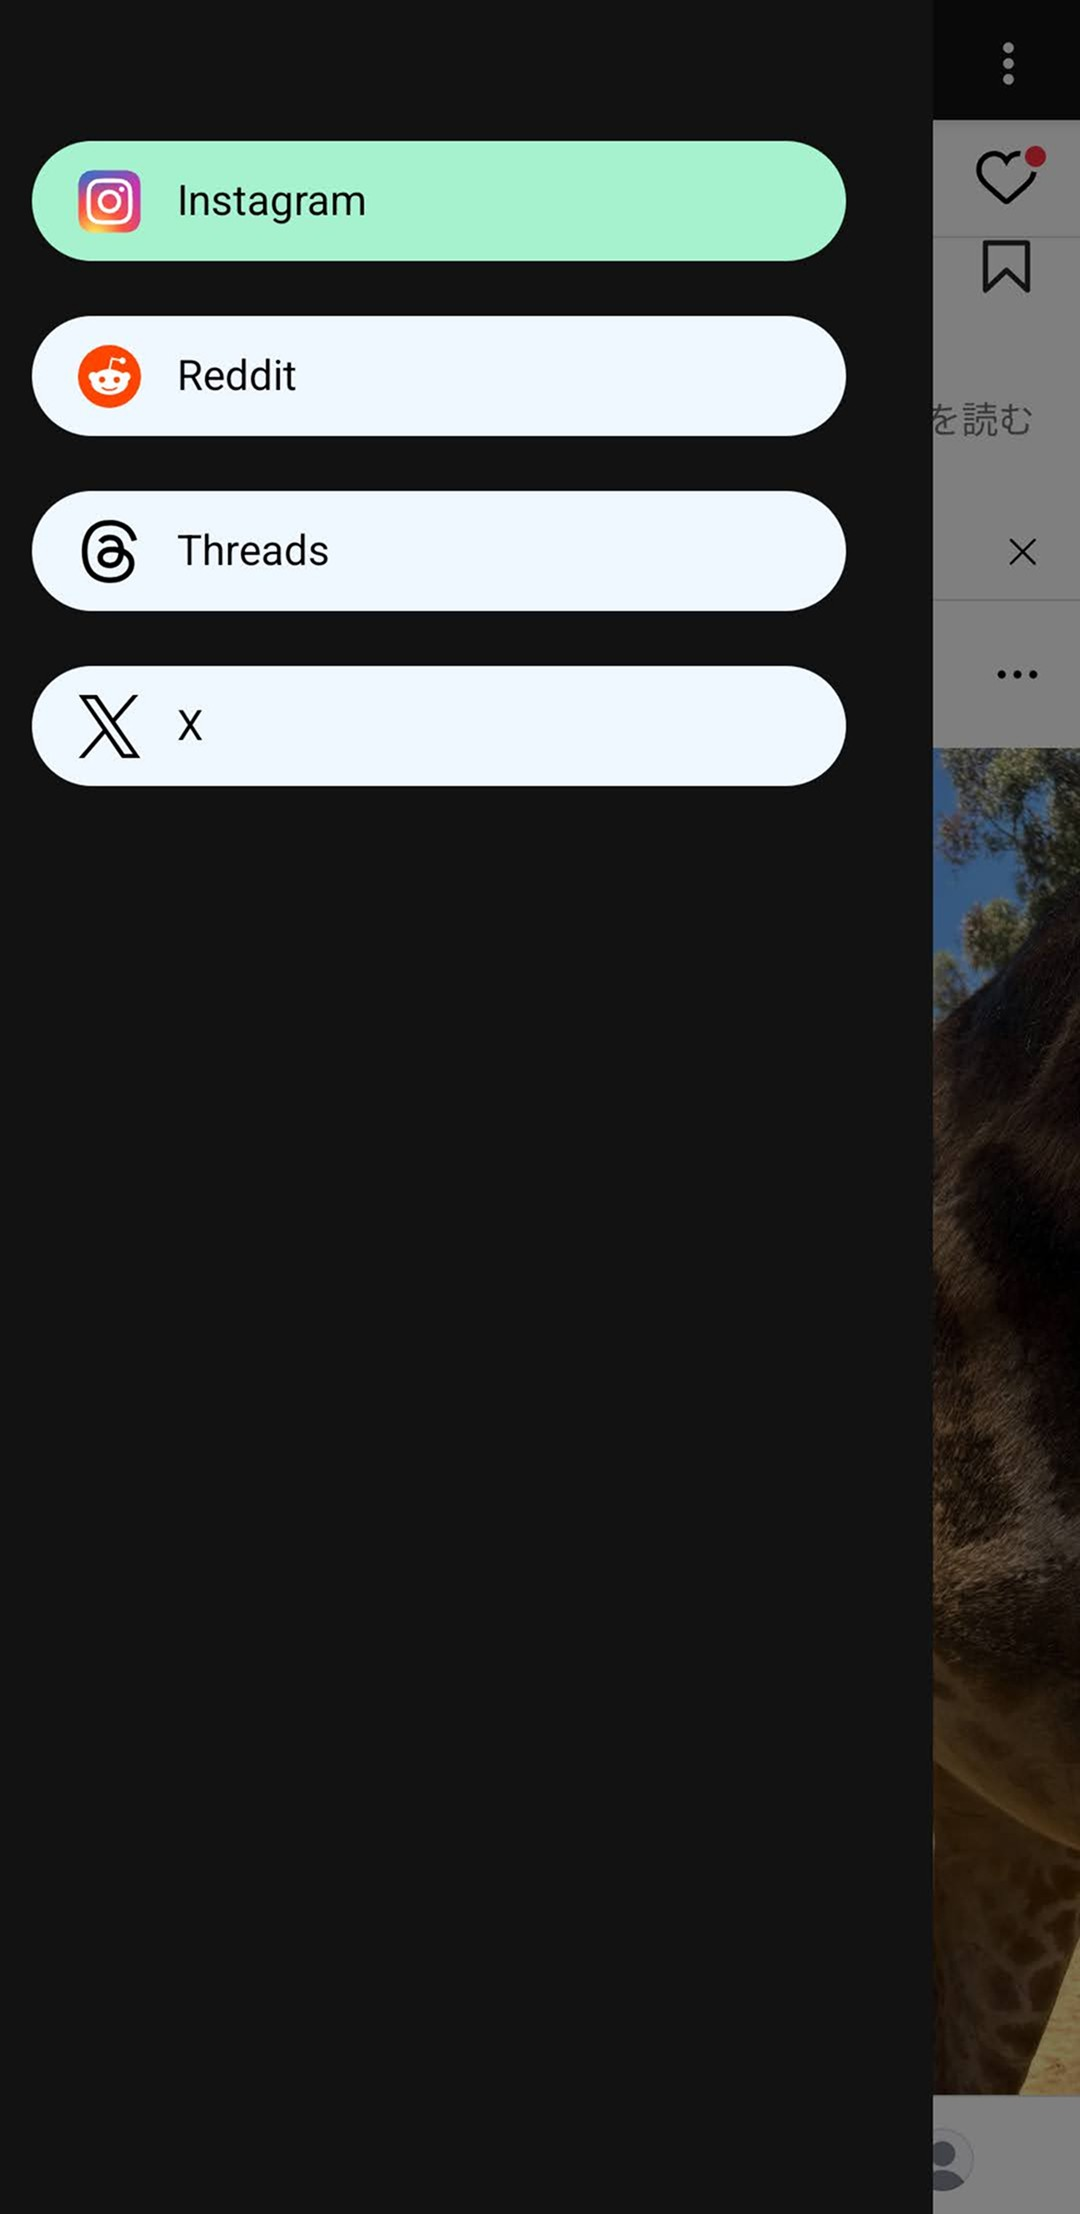
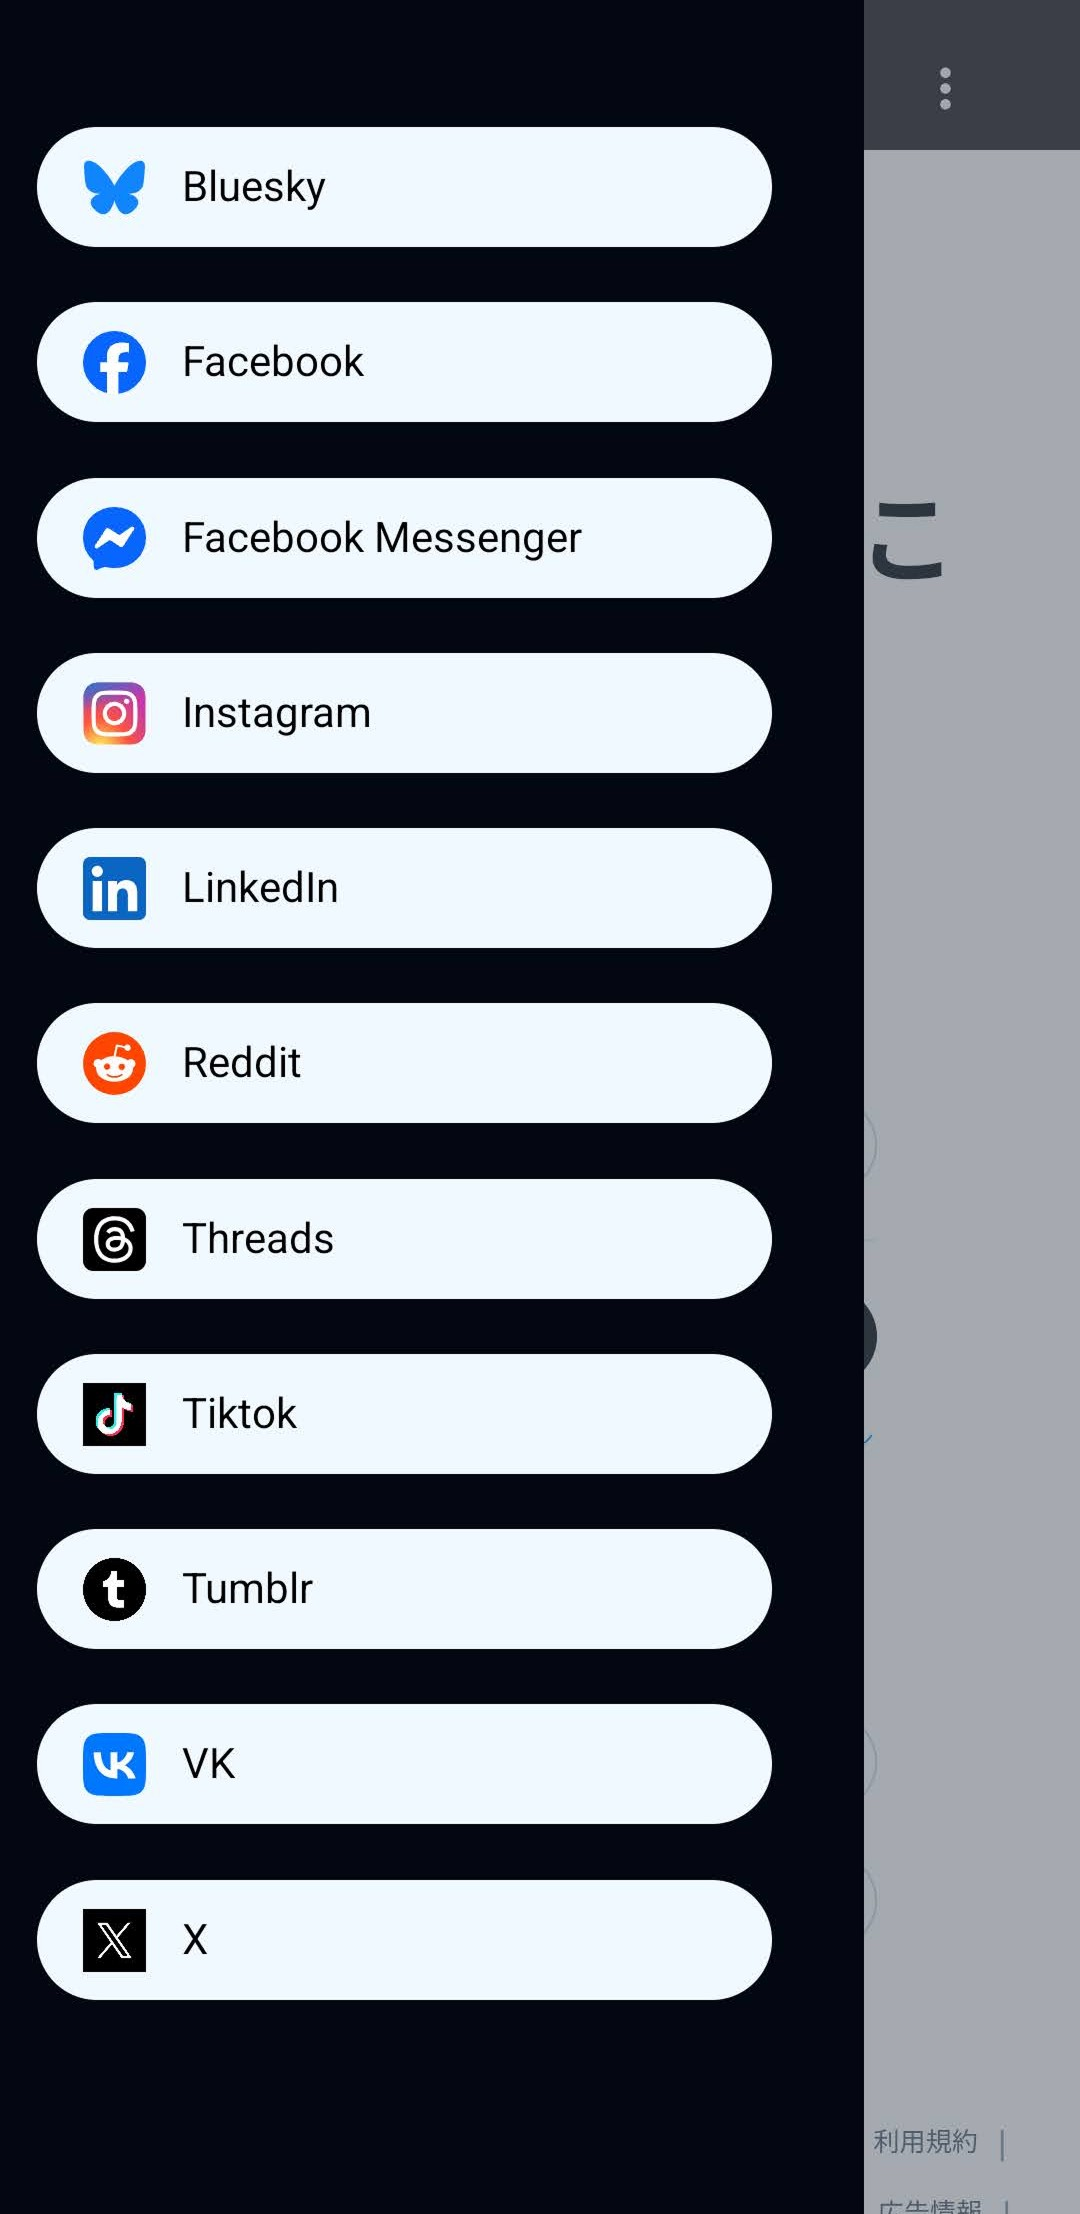
android: 0.2.9

diff --git a/README.md b/README.md
@@ -14,6 +14,19 @@ Desktop version features a deck view to easily browse multiple timelines.
 Desktop version shares the same code base with mobile version.
 Download Linux/macOS/Windows version from [Nora-Desktop](https://github.com/nonbili/Nora-Desktop/releases).
 
+## Supported SNS
+
+- Bluesky
+- Facebook
+- Instagram
+- LinkedIn
+- Reddit
+- Threads
+- Tiktok
+- Tumblr
+- VK
+- X (Twitter)
+
 ## How it works
 
 - Wrap the SNS websites in Android webview
